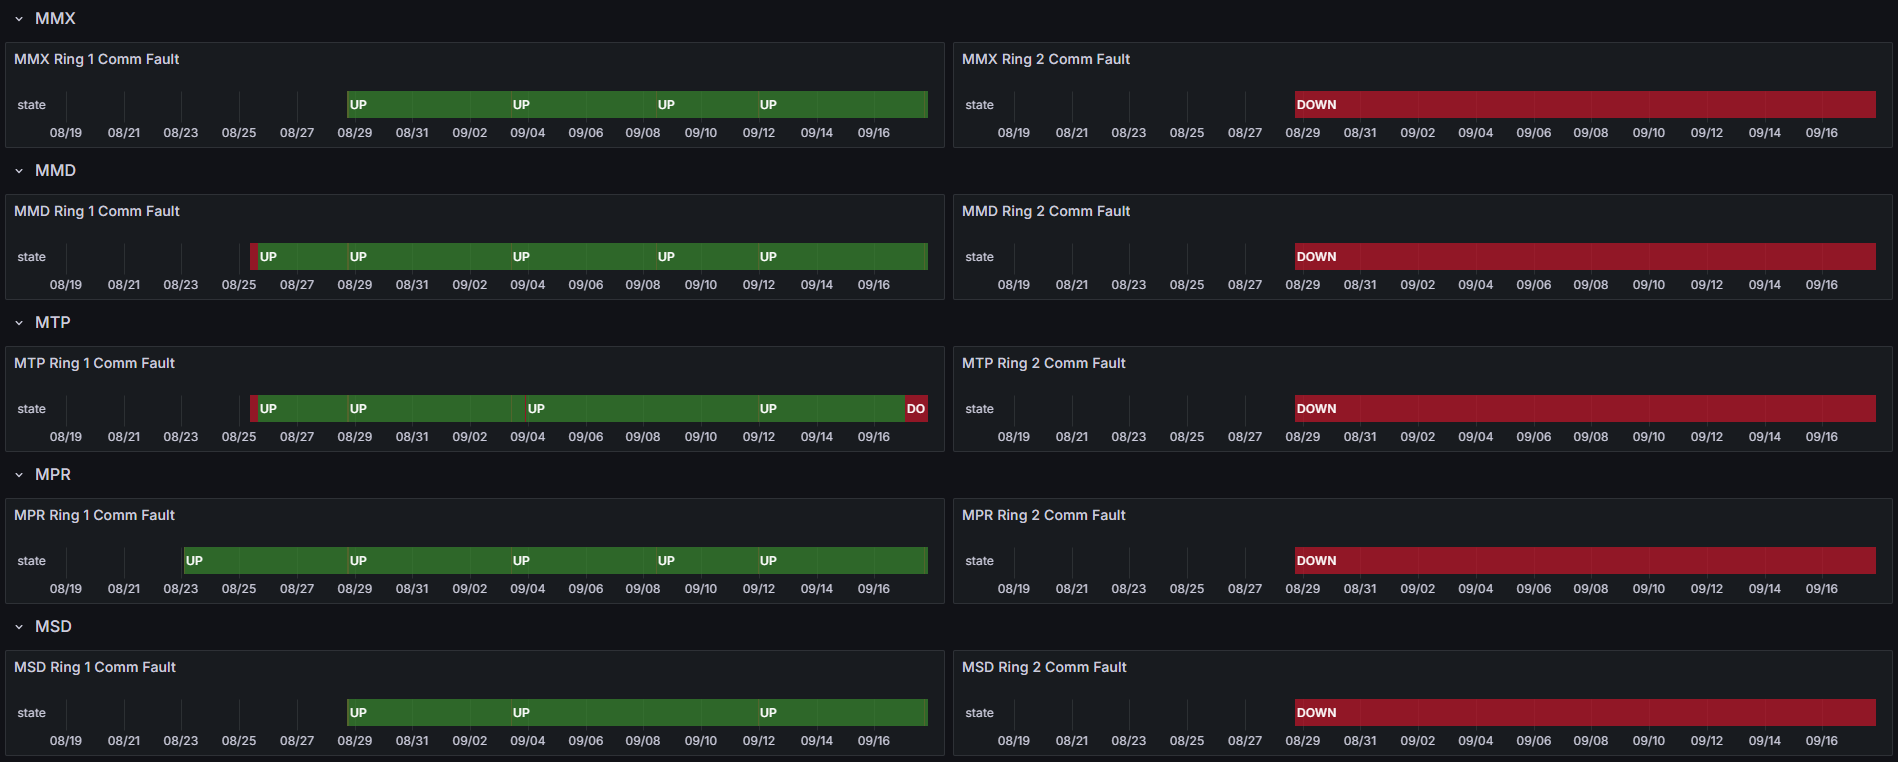
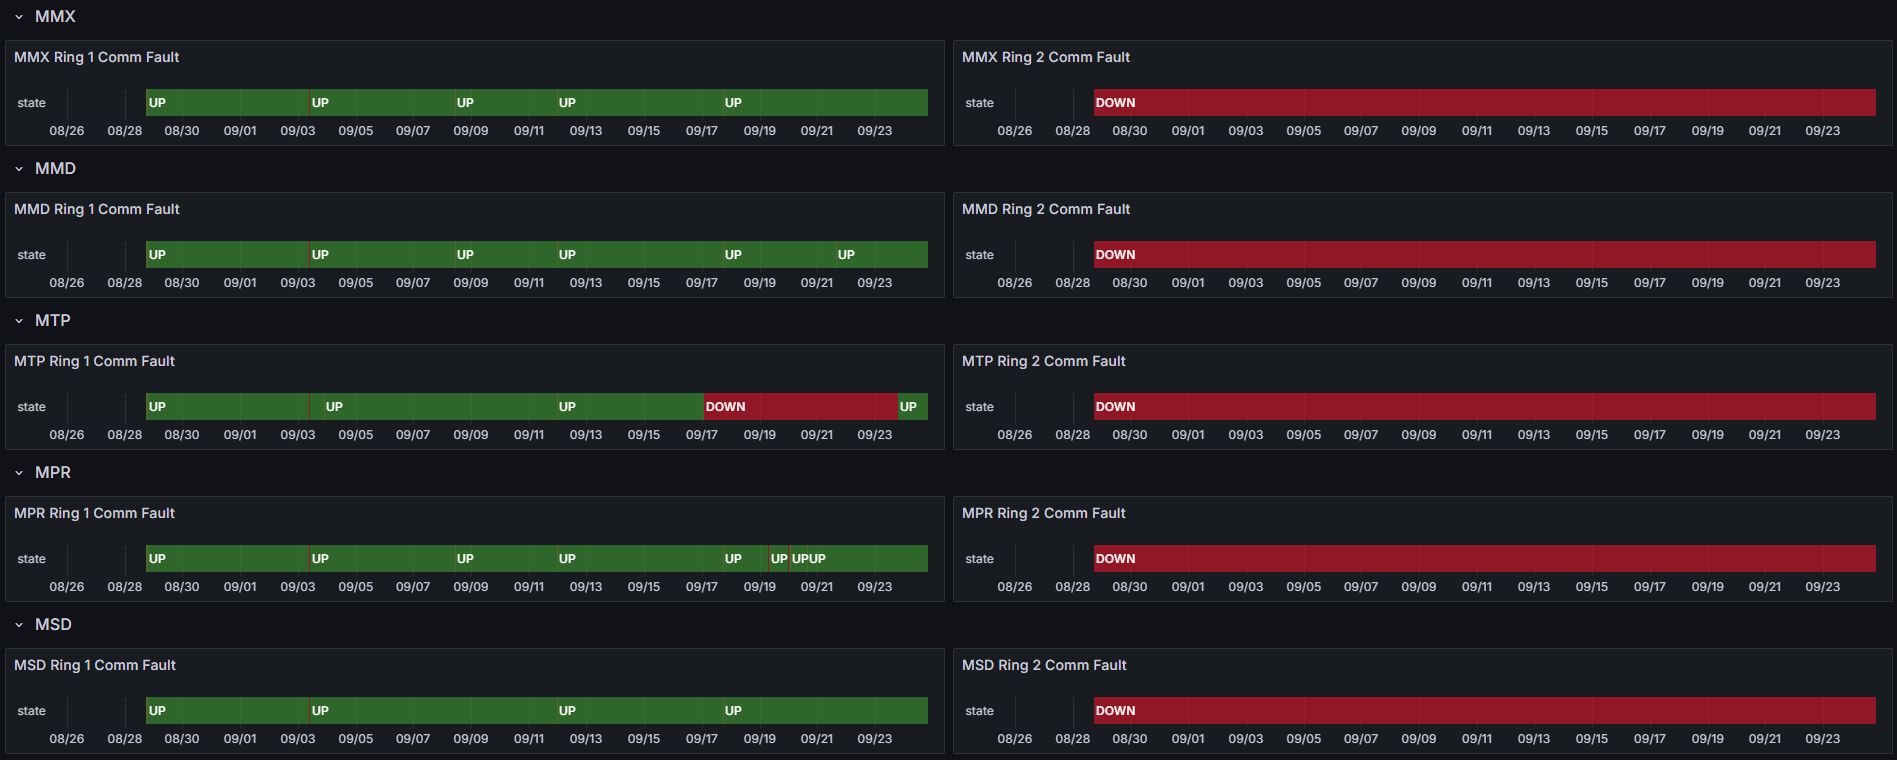
updated with MX Comm Status and YYR WRE-A down

diff --git a/sysmon/index.html b/sysmon/index.html
@@ -275,6 +275,24 @@
                                                       </div>
                                                 </div>
 
+                                                <div class="list-group-item list-group-item-danger">
+                                                      <h4 class="mb-0">9/24 - YYR WRE-A Down</h4>
+                                                      <div class="mb-0">
+                                                            <ul>
+                                                                  <li>9/24 19:40 - YYR WRE-A returned to Maintenance
+                                                                        without Operator Action (PID Alert occurred at
+                                                                        9/24 19:24 indicating WRE went down at that
+                                                                        time); Reset Subsystem at 9/24 19:50;
+                                                                        <code>Reset YYR WRE-A @ 1950 unsuccessful. NAVCANADA Work Order: 11405738 (TC) from Gander TOC will send techs out in the morning 25SEP2025.</code>
+                                                                        -- ref <a
+                                                                              href="https://technetrmlsb.faa.gov/LIR/Details/1061458224">LIR
+                                                                              1061458224</a>...
+                                                                  </li>
+                                                            </ul>
+
+                                                      </div>
+                                                </div>
+
                                                 <hr>
 
                                                 <div class="list-group-item list-group-item-info">
@@ -320,7 +338,10 @@
                                                                         <strong>last event cleared at 9/23 22:23 (~2165
                                                                               seconds total)</strong>
                                                                   </li>
-                                                                  <li>9/24 16:26 - CM1 Ring 2 PRI comms flapping...</li>
+                                                                  <li>9/24 16:26 - CM1 Ring 2 PRI comms
+                                                                        flapping;<strong>last event cleared at 9/24
+                                                                              23:19 (~1872 seconds total)</strong>
+                                                                  </li>
                                                             </ul>
 
 
@@ -455,6 +476,10 @@
                                                                         <strong>line cleared at 9/24 15:57 (~1330
                                                                               seconds)</strong>
                                                                   </li>
+                                                                  <li>9/24 22:37 - CDB Ring 1 comms flapping;
+                                                                        <strong>last event cleared at 9/24 22:46 (~85
+                                                                              seconds total)</strong>
+                                                                  </li>
                                                             </ul>
 
 
@@ -578,6 +603,11 @@
                                                                   equipment refresh and restoration needs...</p>
 
                                                             <ul>
+                                                                  <li><strong>YYR WRE-A</strong> - <em>9/24/25-...</em>
+                                                                        - Troubleshooting 9/25... ref <a
+                                                                              href="https://technetrmlsb.faa.gov/LIR/Details/1061458224">LIR
+                                                                              1061458224</a>
+                                                                  </li>
                                                                   <li><strong>MTP WRE-A</strong> - <em>9/23/25-...</em>
                                                                         - PCU Failed after power outage; PCU-B swapped
                                                                         into WRE-A but DC output is non-functional...
